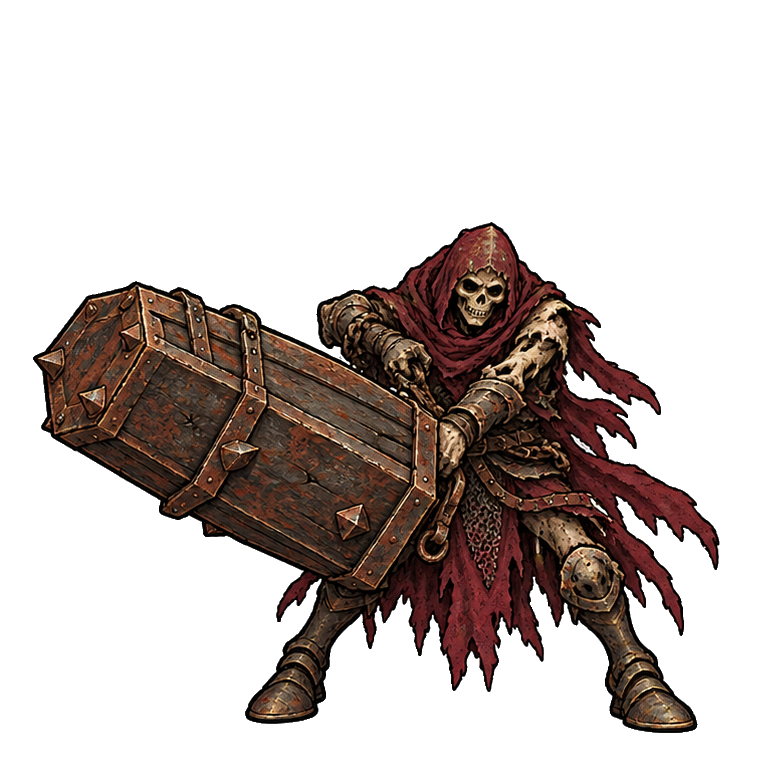
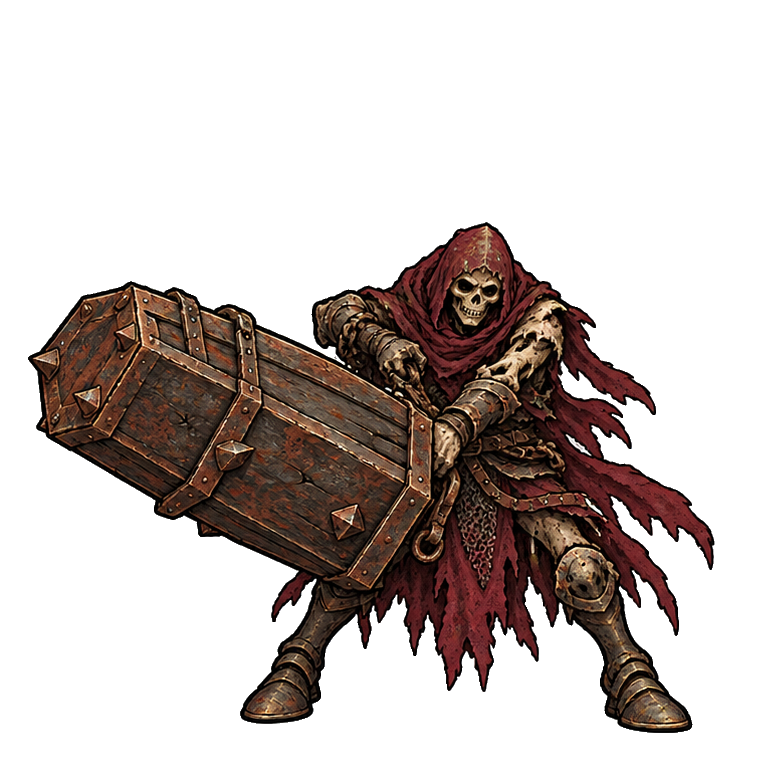
Porte-Cercueil M04 : liseré complet sur tout le contour (--liseré-trou=0)
Claude-Session: https://claude.ai/code/session_016J9VLX1fiPLFcAPYid8ZLe

Changed region(s): [[0.0306, 0.2755, 0.9184, 0.949]]

diff --git a/docs/TECHNIQUE.md b/docs/TECHNIQUE.md
@@ -537,4 +537,4 @@ Après TripoSR, `Converter._bake_command` copie `res://tools_py/bake_texture.py`
 - Fossoyeur sans visage M02 (`mon_fossoyeur`, 2026-10-31) : remplacé par cinq nouvelles images (1024×1536, nouveau prompt), importées avec `--liseré-uniforme=5` (liseré blanc de 5 px sur les cinq poses). Carré de 1568 px, pose d'attente haute de 1425 px (0,909) ; la pose « attaque alternative » est remise à l'échelle (×0,958). Ligne `fossoyeur` de `MON_HEIGHTS` : 1,5 (≈ 1,77 m, comme l'ancien) ; buste `[0.492, 0.16, 0.13]`. Résistances et effets inchangés.
 - Veuve des Cryptes M03 (`mon_veuve`) : remplacée par la nouvelle génération (épousée humaine, même id, même nom, mêmes résistances). Importée avec `--liseré-uniforme=5` et `--echelles=1.000,0.834,0.876,0.894,1.000` calculées par `tools/estimate_scales.py` (appariement SIFT de toutes les paires de poses ; l'appariement direct à l'attente échouait pour l'attaque, l'attaque alternative et la mort). Carré 1616 px, attente 1459 px. Ordre des images : repos, attaque, coup reçu, attaque alternative, mort ; l'attribution attaque / attaque alternative a été choisie d'après le contenu. L'échelle de la pose de mort reste à 1,0 (aucune paire fiable) : à contrôler à l'œil. Hauteur en jeu `veuve` 1.66, médaillon `[0.507, 0.155, 0.115]`.
 - Liseré uniforme : le blanc est retiré dans les creux (trous du lambeau, dessous des bras) par fermeture de la silhouette (`--liseré-trou=N`, 90 px par défaut, profondeur 14 px), le tour reste collé au contour ; les aplats blancs ≥ 60 px du dessin d'origine sont aussi retirés. Appliqué à la Veuve M03 ; le M01 et le M02 gardent l'ancien tracé.
-- Porte-Cercueil M04 (`mon_porte_cercueil`) : remplacé à partir d'une planche (3 poses + 2), `make_monster.py mon_porte_cercueil --liseré-uniforme=5 planche.png`. Carré 784 px, attente 708 px (0,903) : même définition que l'ancien fichier, donc hauteur en jeu (`cercueil` 1.5) et médaillon (`[0.47, 0.27, 0.115]`) inchangés.
+- Porte-Cercueil M04 (`mon_porte_cercueil`) : remplacé à partir d'une planche (3 poses + 2), `make_monster.py mon_porte_cercueil --liseré-uniforme=5 --liseré-trou=0 planche.png` (`--liseré-trou=0` : liseré complet, y compris entre les franges du tissu ; contrôlé : aucun contour nu sur les 5 poses). Carré 784 px, attente 708 px (0,903) : même définition que l'ancien fichier, donc hauteur en jeu (`cercueil` 1.5) et médaillon (`[0.47, 0.27, 0.115]`) inchangés.
